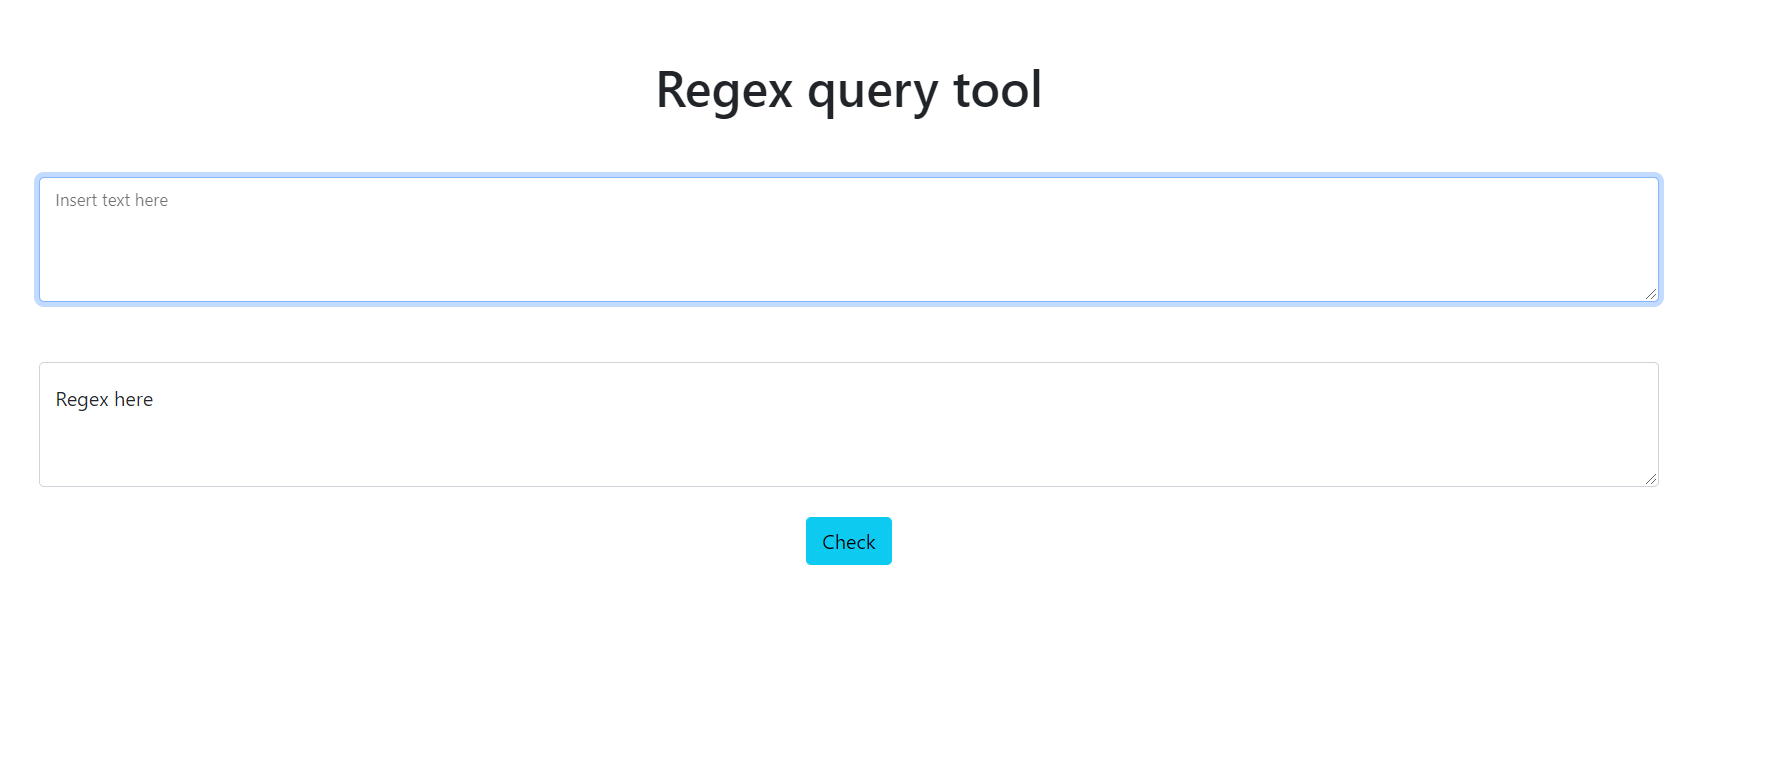
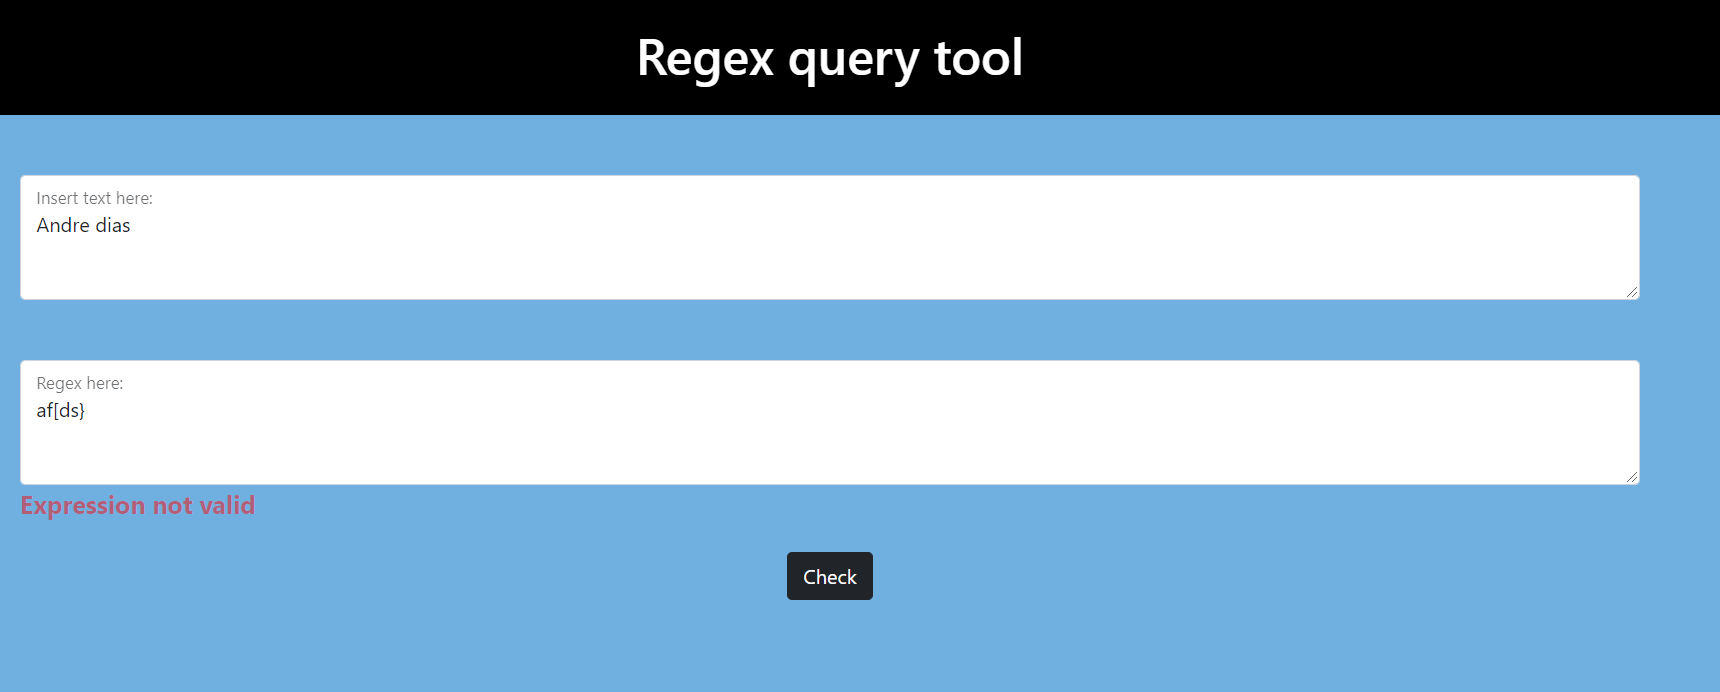
Used django forms

diff --git a/regex/regex_query_tool/templates/regex_query/index.html b/regex/regex_query_tool/templates/regex_query/index.html
@@ -1,3 +1,5 @@
+{% load static %}
+
 <!DOCTYPE html>
 <html lang="en">
 <head>
@@ -6,27 +8,51 @@
     <meta name="viewport" content="width=device-width, initial-scale=1.0">
     <!-- CSS only -->
     <link href="https://cdn.jsdelivr.net/npm/bootstrap@5.0.1/dist/css/bootstrap.min.css" rel="stylesheet" integrity="sha384-+0n0xVW2eSR5OomGNYDnhzAbDsOXxcvSN1TPprVMTNDbiYZCxYbOOl7+AMvyTG2x" crossorigin="anonymous">
+    
+    <link rel="stylesheet" href="{% static 'regex_query_tool/css/style.css' %}">
+    
     <title>Regex Query Tool</title>
 </head>
 <body>
+    <div class="header">
+
+        <h1 class="py-4 d-flex flex-column align-items-center">Regex query tool</h1>
+    </div>
+
     <div class="container">
 
-        <h1 class="mt-5 d-flex flex-column align-items-center">Regex query tool</h1>
 
         <form action="" method="POST">
             {% csrf_token %}
+
+
             <div class="form-floating my-5">
-                <textarea name="text" class="form-control" placeholder="Leave a comment here" id="floatingTextarea2" style="height: 100px">{{ text }}</textarea>
-                <label for="floatingTextarea2">Insert text here</label>
+
+                {{ form.text }}
+                {{ form.text.label_tag }}
+                <!-- <textarea name="text" class="form-control" placeholder="Leave a comment here" id="floatingTextarea2">{{ text }}</textarea>
+                <label for="floatingTextarea2">Insert text here</label> -->
+
             </div>
     
+            
             <div class="form-floating">
-                <textarea name="regex_text" class="form-control" placeholder="Leave a comment here" id="floatingTextarea2" style="height: 100px">{{ expression }}</textarea>
-                <label for="floatingTextarea2">Regex here</label>
+
+                {{ form.regex_text }}
+                {{ form.regex_text.label_tag }}
+
+                <!-- <textarea name="regex_text" class="form-control" placeholder="Leave a comment here" id="floatingTextarea2">{{ expression }}</textarea>
+                <label for="floatingTextarea2">Regex here</label> -->
+
+
+                {% if error %}
+                    <p class="error"> {{ error }}</p>
+
+                {% endif %}
             </div>
 
             <p class="text-center mt-4">
-                <button type="submit" class="btn btn-info">Check</button>
+                <button type="submit" class="btn btn-dark">Check</button>
             </p>
 
         </form>
@@ -40,7 +66,11 @@
                 {% endfor %}
             </ul>
         {% endif %}
+        
+        <!-- <div class="form-floating">
+            {{form }}
 
+        </div> -->
         
     
     </div>

diff --git a/regex/regex_query_tool/static/regex_query_tool/css/style.css b/regex/regex_query_tool/static/regex_query_tool/css/style.css
@@ -1,0 +1,20 @@
+body {
+    background-color: #70b0e0;
+}
+
+.header {
+    display: block;
+    background-color: black;
+    color: white;
+
+}
+
+.form-control {
+    height: 100px !important;
+}
+
+.error {
+    color: rgba(255, 0, 0, 0.466);
+    font-weight: 700;
+    font-size: 20px;
+}

diff --git a/regex/regex_query_tool/views.py b/regex/regex_query_tool/views.py
@@ -1,16 +1,32 @@
 from django.shortcuts import render
 from django.http import HttpResponse, HttpResponseRedirect
 from django.urls import reverse
+
+from .forms import RegexForm
 import re
 
 # Create your views here.
 def regex(request):
+
+    form = RegexForm()
+
     if request.method == "POST":
-        text = request.POST['text']
-        expression = request.POST['regex_text']
-        matched = re.findall(expression, text)
 
-        context = {"matched": matched, "text":text, "expression": expression}
-        return render(request, "regex_query/index.html", context=context)
+        form = RegexForm(request.POST)
 
-    return render(request, "regex_query/index.html")
+        if form.is_valid():
+            text = form.cleaned_data['text']
+            expression = form.cleaned_data['regex_text']
+
+            try:
+                matched = re.findall(expression, text)
+            except:
+                error = "Expression not valid"
+                context = {"form":form, "error": error}
+                return render(request, "regex_query/index.html", context=context)
+            else:
+                context = {"matched": matched, "form":form}
+                return render(request, "regex_query/index.html", context=context)
+
+
+    return render(request, "regex_query/index.html", context={"form": form})

diff --git a/regex/regex_query_tool/forms.py b/regex/regex_query_tool/forms.py
@@ -1,0 +1,11 @@
+from django import forms
+
+class RegexForm(forms.Form):
+    text = forms.CharField(label="Insert text here", widget=forms.Textarea)
+    regex_text = forms.CharField(label="Regex here", widget=forms.Textarea)
+
+    text.widget.attrs.update({'class':'form-control', 'cols': False, 'rows': False})
+    regex_text.widget.attrs.update({'class': 'form-control', 'cols': False, 'rows': False})
+
+
+#<textarea name="text" class="form-control" placeholder="Leave a comment here" id="floatingTextarea2">{{ text }}</textarea>
